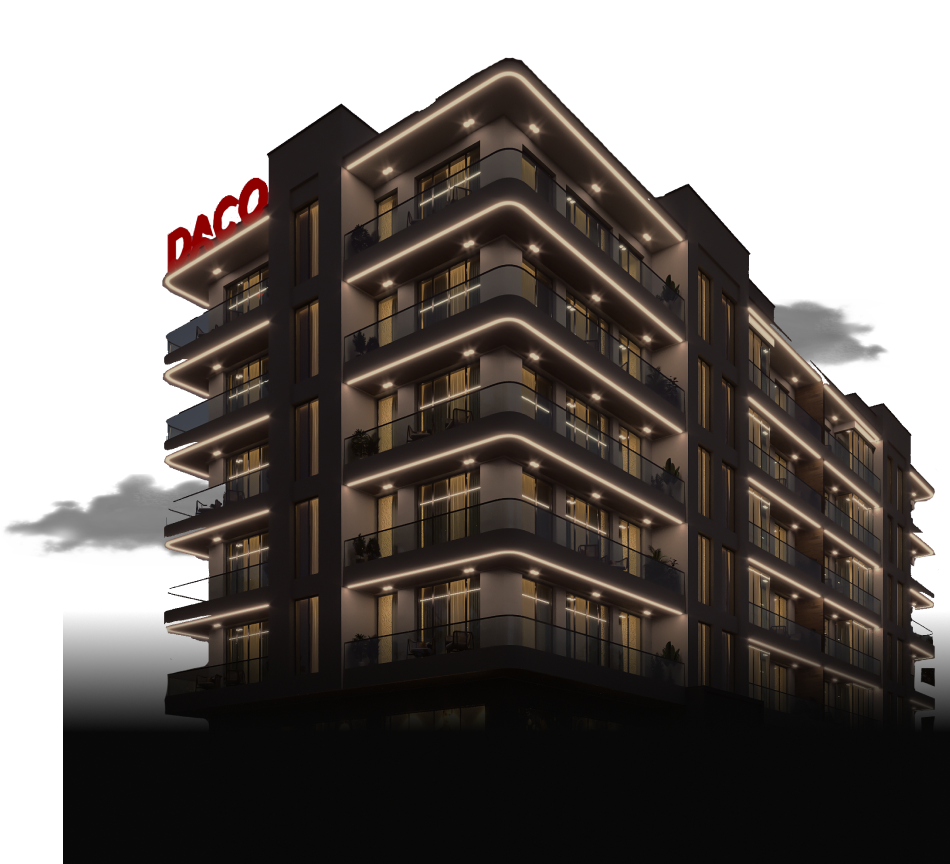
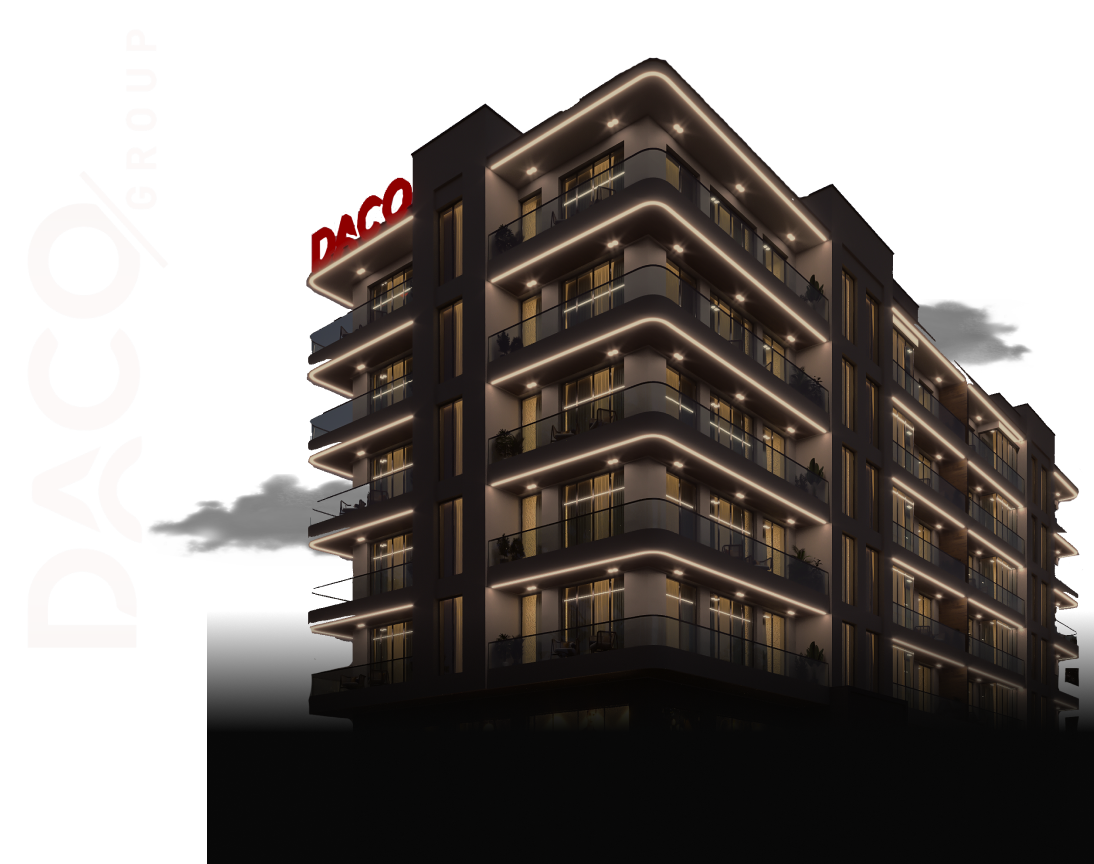
contact block ready

diff --git a/components/ContactUs/index.jsx b/components/ContactUs/index.jsx
@@ -1,84 +1,79 @@
-import { Montserrat } from "@next/font/google";
-import Image from "next/image";
-import fog from "../../public/contact/fog.png";
-import building from "../../public/contact/contact-bg.png";
-import logo from "../../public/contact/logo.png";
+import { Montserrat } from '@next/font/google'
+import Image from 'next/image'
+import fog from '../../public/contact/fog.png'
+import building from '../../public/contact/contact-bg.png'
+import logo from '../../public/contact/logo.png'
 
 const montserrat = Montserrat({
-  subsets: ["latin"],
-  variable: "--font-montserrat",
-});
+	subsets: ['latin'],
+	variable: '--font-montserrat',
+})
 
 const ContactUs = () => {
-  return (
-    <div className={`${montserrat.variable} font-sans relative`} id="contacts">
-      <div className="container">
-        <div className="flex ">
-          <Image
-            src={logo}
-            alt="contact us"
-            quality={100}
-            draggable={false}
-            className="mb-20"
-          />
+	return (
+		<div
+			className={`${montserrat.variable} font-sans relative`}
+			id='contacts'
+		>
+			<div className='container'>
+				<div className='flex overflow-hidden'>
+					<Image
+						src={building}
+						alt='contact us'
+						quality={100}
+						draggable={false}
+						className='ml-auto mr-[5%] relative -z-30'
+					/>
+				</div>
 
-          <Image
-            src={building}
-            alt="contact us"
-            quality={100}
-            draggable={false}
-            className="ml-auto mr-[5%] relative -z-30"
-          />
-        </div>
+				<div className='flex flex-col items-center justify-between gap-6 py-6 lg:flex-row px-14 contact-bg'>
+					<div className='max-w-sm'>
+						<h2 className='font-semibold text-[40px]'>Contact us</h2>
+						<p className='text-[15px] opacity-70'>
+							Get to know the best aspects of our company
+						</p>
+					</div>
 
-        <div className="flex flex-col items-center justify-between gap-6 py-6 lg:flex-row px-14 contact-bg">
-          <div className="max-w-sm">
-            <h2 className="font-semibold text-[40px]">Contact us</h2>
-            <p className="text-[15px] opacity-70">
-              Get to know the best aspects of our company
-            </p>
-          </div>
+					<form className='flex flex-col items-center w-full max-w-sm gap-5 lg:w-auto lg:max-w-none lg:flex-row'>
+						<input
+							type='text'
+							className='w-full lg:w-auto px-5 py-4 font-medium outline-none rounded-xl bg-accent/50 placeholder:text-white placeholder:opacity-40 text-[15px]'
+							placeholder='Name'
+						/>
 
-          <form className="flex flex-col items-center w-full max-w-sm gap-5 lg:w-auto lg:max-w-none lg:flex-row">
-            <input
-              type="text"
-              className="w-full lg:w-auto px-5 py-4 font-medium outline-none rounded-xl bg-accent/50 placeholder:text-white placeholder:opacity-40 text-[15px]"
-              placeholder="Name"
-            />
+						<input
+							type='tel'
+							className='w-full lg:w-auto px-5 py-4 outline-none rounded-xl bg-accent/50 placeholder:text-white placeholder:opacity-40 font-medium text-[15px]'
+							pattern='+[0-9]{3} ([0-9]{2}) [0-9]{3}-[0-9]{2}-[0-9]{2}'
+							placeholder='Phone number'
+						/>
 
-            <input
-              type="tel"
-              className="w-full lg:w-auto px-5 py-4 outline-none rounded-xl bg-accent/50 placeholder:text-white placeholder:opacity-40 font-medium text-[15px]"
-              pattern="+[0-9]{3} ([0-9]{2}) [0-9]{3}-[0-9]{2}-[0-9]{2}"
-              placeholder="Phone number"
-            />
+						<button className='flex items-center py-1 pr-1 pl-6 border gap-[14px] rounded-full'>
+							<span>Send info</span>
+							<div className='rounded-full button-icon-bg w-[42px] h-[42px] overflow-hidden flex items-center justify-center'>
+								<Image
+									src={'/icons/chevron-right.svg'}
+									width={10}
+									height={10}
+									alt='chevron'
+								/>
+							</div>
+						</button>
+					</form>
+				</div>
+			</div>
 
-            <button className="flex items-center py-1 pr-1 pl-6 border gap-[14px] rounded-full">
-              <span>Send info</span>
-              <div className="rounded-full button-icon-bg w-[42px] h-[42px] overflow-hidden flex items-center justify-center">
-                <Image
-                  src={"/icons/chevron-right.svg"}
-                  width={10}
-                  height={10}
-                  alt="chevron"
-                />
-              </div>
-            </button>
-          </form>
-        </div>
-      </div>
+			<div className='absolute bottom-0 left-0 right-0 translate-y-1/3 -z-10'>
+				<Image
+					src={fog}
+					alt='fog'
+					quality={100}
+					className='object-cover w-full h-full'
+					draggable={false}
+				/>
+			</div>
+		</div>
+	)
+}
 
-      <div className="absolute bottom-0 left-0 right-0 translate-y-1/3 -z-10">
-        <Image
-          src={fog}
-          alt="fog"
-          quality={100}
-          className="object-cover w-full h-full"
-          draggable={false}
-        />
-      </div>
-    </div>
-  );
-};
-
-export default ContactUs;
+export default ContactUs

diff --git a/pages/index.js b/pages/index.js
@@ -35,7 +35,7 @@ const Home = () => {
 			{/* <Live /> */} {/*ready*/}
 			{/* <Advantages /> */} {/*ready*/}
 			{/* <Map /> */}
-			{/* <ContactUs /> */}
+			{/* <ContactUs /> */} {/*ready*/}
 			<Footer />
 			{showMobileMenu ? <MobileMenuNoSSR /> : null}
 		</main>
